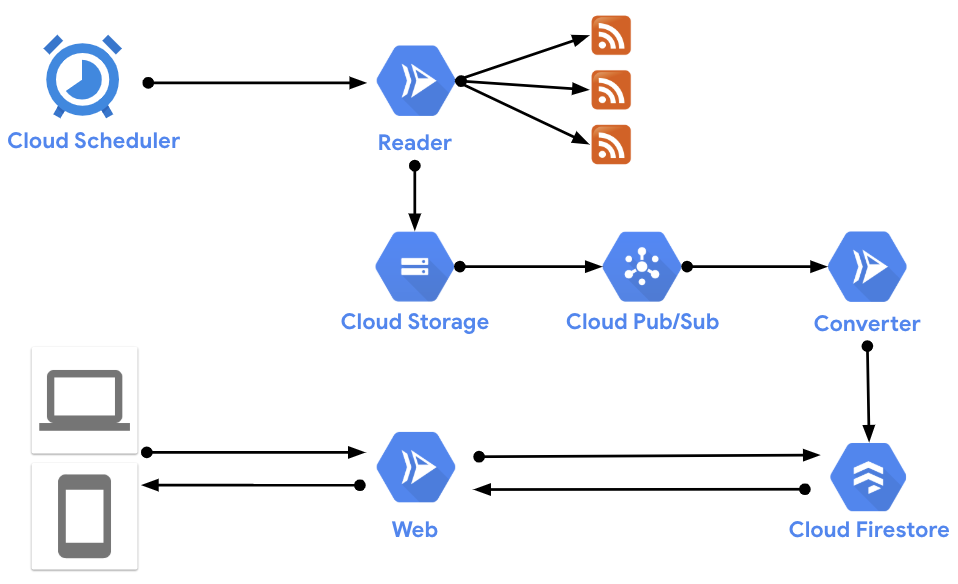
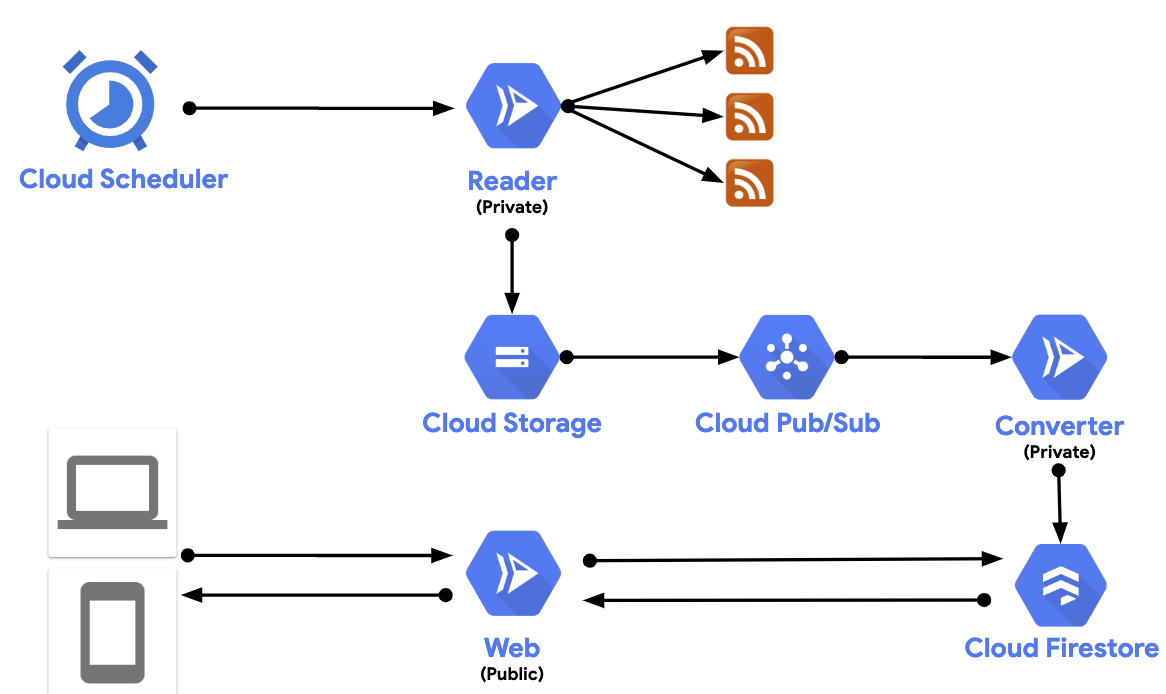
Made Amathus.Reader private

Changed region(s): [[0.0, 0.0, 0.9687, 0.7089], [0.0303, 0.6164, 0.999, 0.9863]]

diff --git a/README.md b/README.md
@@ -24,10 +24,10 @@ Build:
 scripts/build reader
 ```
 
-Deploy service (public):
+Deploy service (private):
 
 ```bash
-scripts/deploy reader
+scripts/deploy reader private
 ```
 
 (One time) Create a Cloud Storage bucket and a Scheduler job to invoke the service:
